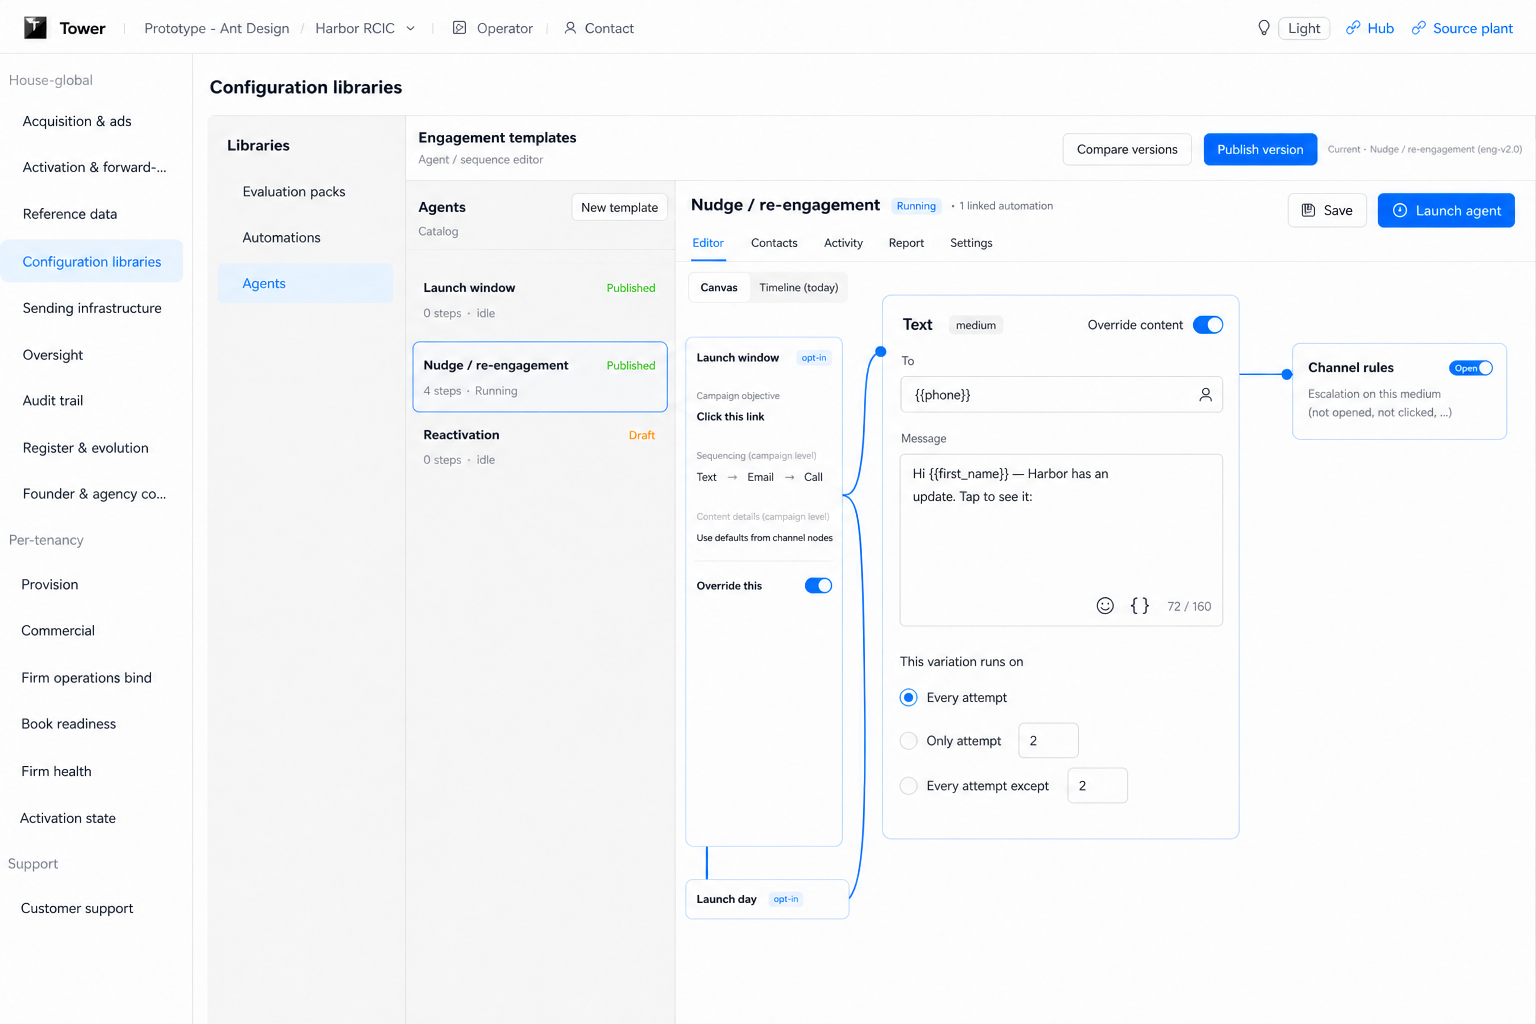
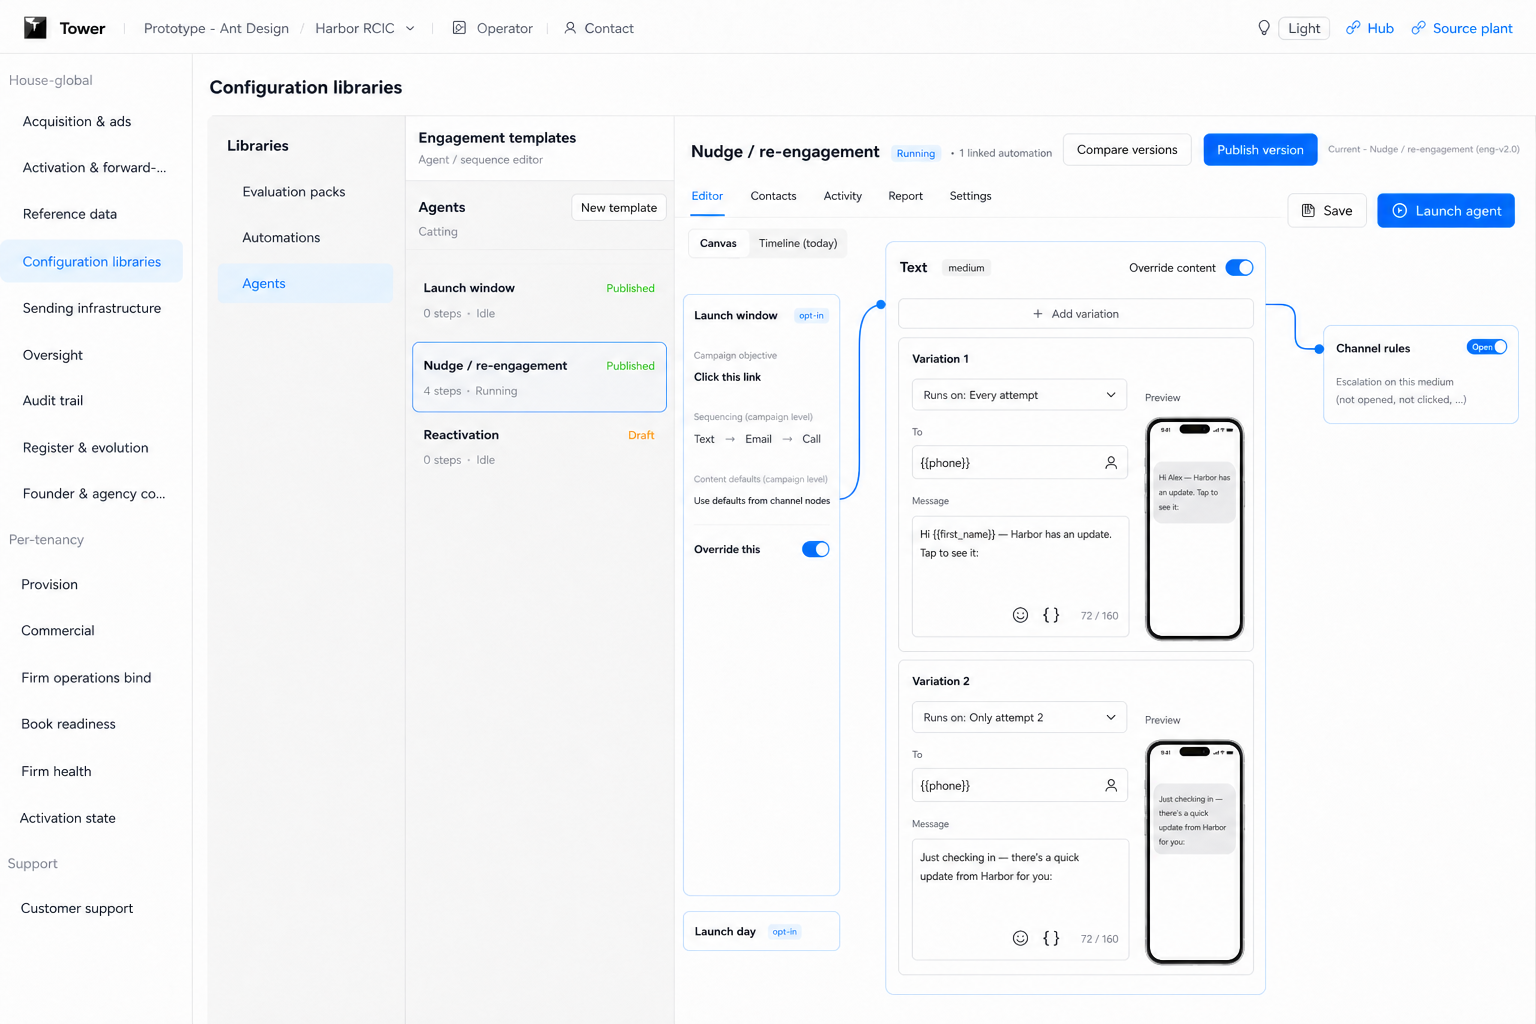
docs: spec copy-only grains; C11 is add variation
C0 is the Agents settings control. C9 is campaign attempt count and distance. C11 is + Add variation on the channel, then how that variation applies. C13 Activity table stands; Contacts uses the same table. Written spec for the implementer.

diff --git a/docs/register/IMPLEMENTER-FACE-PASS.md b/docs/register/IMPLEMENTER-FACE-PASS.md
@@ -1,0 +1,104 @@
+# Implementer face pass — copy this, ignore that
+
+**Seat:** Product Manager. Paste this. Product language. Do not invent backend. Do not mint tables.  
+**Flag:** [`PHASE-TWO-LOG.md`](./PHASE-TWO-LOG.md) **15:43 UTC** — do not overwrite.  
+**Desk:** CT Ant `/prototype-ant`, Light. Operator → Configuration libraries → Agents / Automations. Chrome rule: [`PLATE-CHROME-RULE.md`](./PLATE-CHROME-RULE.md).  
+**Captions:** [`IMAGE-CAPTION-AUDIT.md`](./IMAGE-CAPTION-AUDIT.md). Teaching copy on older plates is not a node.
+
+Each new plate has **one purpose**. Copy that. Everything else on that PNG is not spec.
+
+---
+
+## C0 — only the Agents settings control
+
+Plate: [`agents-blueprint/C0-agents-global-settings-entry.png`](./agents-blueprint/C0-agents-global-settings-entry.png)
+
+**Copy:** The **Agents settings** control (gear + label) on the Agents catalog, next to **New template**. That is **global** — every sequence starts from these settings unless a sequence or campaign overrides.
+
+**Ignore:** The rest of that PNG. Mock beats. The right editor body. Teaching banners. Catalog-selection drift.
+
+**Opens:** [`C6-agents-settings-global.png`](./agents-blueprint/C6-agents-settings-global.png) — already locked. Do not invent a third Settings surface.
+
+---
+
+## C9 — only the campaign attempt modulators
+
+Plate: [`agents-blueprint/C9-campaign-local-attempt-add-channel.png`](./agents-blueprint/C9-campaign-local-attempt-add-channel.png)
+
+**Copy:** When **Override this** is **on**, the campaign container shows two attempt settings:
+
+- **Attempt count**
+- **Distance between attempts**
+
+Those live on the **campaign**, not on a channel. Attempts are cycles of the same channel order.
+
+**Ignore:** Everything else on that PNG. Objective teaching copy. Sequencing chips. Closed channel cards. Launch day. Any leftover qualify caption. **Do not copy + Add channel from this plate** — it is not this plate’s purpose.
+
+---
+
+## C11 — add a variation (this plate was redone)
+
+Plate: [`agents-blueprint/C11-channel-attempt-variation.png`](./agents-blueprint/C11-channel-attempt-variation.png)
+
+**Dead:** Three radios on one composer (“this variation runs on…” locking a single block). That does not work. You cannot add another variation that way.
+
+**Copy:**
+
+1. On the **channel node**, a **+ Add variation** control at the **top** of the node.
+2. Clicking it **adds** a variation — another content block on that same channel.
+3. **Then** each variation has a control for **how it applies in the attempt cycle** (every attempt / only this attempt / every attempt except this one). That selector lives **on the variation**, after you add it.
+
+Not A/B. Same channel, more than one content, each tied to the attempt cycle.
+
+**Ignore:** Launch window / Launch day teaching. Qualify captions. Anything that is not the + Add variation grain and the per-variation apply control.
+
+---
+
+## C13 — Activity table (keep)
+
+Plate: [`agents-blueprint/C13-sequence-activity.png`](./agents-blueprint/C13-sequence-activity.png)
+
+**Copy:** The **Activity** tab as an Ant **table**. Columns: **Time · Name · Firm · Channel · What happened**. Real names and firms. Search. Pagination. Not `event_kind` + a UUID. Not a numbered list. Not the engagement chart.
+
+---
+
+## Contacts — same table, no new image
+
+Do not need a new PNG. **Contacts** uses the **same table chrome as C13**.
+
+Columns: **Name · Firm · Enrolled date**. Search. Pagination. People and firms, not `contact_id` / “lead 351”.
+
+Add contact remains the **C8 modal** (Every firm / Select from), not a thin popover. Header button still sits with Save / Launch.
+
+Plate for the modal only: [`C8-sequence-contacts-enroll.png`](./agents-blueprint/C8-sequence-contacts-enroll.png). Copy the modal and the table grain. Ignore founder-caption sentences on C8.
+
+---
+
+## Also do (written — not a new plate)
+
+These were asked. They are not “copy from C9/C11.”
+
+| Do | How |
+|----|-----|
+| **Add a channel** | On the open campaign, **+ Add channel**. Do not stub. Do not change a number first. Not taken from C9. |
+| **Channels are not radios** | Opening one channel must not close the others. Any mix of open/closed. |
+| **Sequence Settings** | This sequence’s Settings tab = [`C7`](./agents-blueprint/C7-sequence-settings.png). Attempt cycle ≠ channel rules. Channel rules are per medium. |
+| **Override toggle** | Lives **above** its modulators. Off = greyed inherit. On = you can edit. Toggling with nothing underneath is not a control. |
+| **Global vs sequence** | C0 gear → C6 global. Sequence tab → C7. Then campaign local (C9). Channels nest inside a campaign; they are not a fourth CSS sibling. |
+| **Modals scroll** | Every modal and submodal body scrolls. Pervasive today. Fix it. |
+| **Action · Agents** | Match [`A12`](./automations-blueprint/A12-form-from-required-data.png) — an actual form from the listing. Assign path [`A14`](./automations-blueprint/A14-action-assign-or-template.png). |
+| **Rename nodes** | Click the title, edit in place, same as renaming a campaign in Agents. Including the If / condition node. Same pattern everywhere a name is changed. |
+| **Rule Output** | Match [`A11`](./automations-blueprint/A11-rule-output-required-data-listing.png). |
+
+---
+
+## What this is not
+
+- Not the engagement chart. Activity is a table. The chart is a record for later.
+- Not Hub chrome.
+- Not freezing Launch window / Launch day as types.
+- Not a `qualify` node.
+- Not three radios as the variation model.
+- Not planting from this file into a different module.
+
+**Reports** may stay empty.

diff --git a/docs/register/AGENTS-UI-BLUEPRINT.md b/docs/register/AGENTS-UI-BLUEPRINT.md
@@ -27,10 +27,10 @@ These ten files are **canon**. Later plates revise earlier ones only where the t
 | **C6** | [`C6-agents-settings-global.png`](./agents-blueprint/C6-agents-settings-global.png) | **Agents Settings** = global defaults. Founder: locked, perfect. | 19:30 two Settings surfaces | — |
 | **C7** | [`C7-sequence-settings.png`](./agents-blueprint/C7-sequence-settings.png) | **Sequence Settings** = this sequence; inherit unless override. Founder: locked, perfect. | 19:30 | — |
 | **C8** | [`C8-sequence-contacts-enroll.png`](./agents-blueprint/C8-sequence-contacts-enroll.png) | This sequence → **Contacts**. Displays enrolled. **Add contact** in the header. Scope: **Every firm** (default) or **Select from** (all selected; deselect to pick one). Starts the mission now. | 00:02 · 01:01 scope | — |
-| **C0** | [`C0-agents-global-settings-entry.png`](./agents-blueprint/C0-agents-global-settings-entry.png) | Agents **module** Settings entry: gear **Agents settings** on the catalog, next to New template. Global — every sequence. Same desk as live `/prototype-ant`. | 16:10 · 16:16 chrome | — |
-| **C9** | [`C9-campaign-local-attempt-add-channel.png`](./agents-blueprint/C9-campaign-local-attempt-add-channel.png) | Override this **on**: campaign **attempt count** + **distance between attempts**; **+ Add channel**; Text and Email can both stay open (not radios). Same Operator desk as C4/C5. | 16:10 · 16:16 chrome | revises C4/C5 for those grains |
-| **C11** | [`C11-channel-attempt-variation.png`](./agents-blueprint/C11-channel-attempt-variation.png) | Inside a channel: **this variation runs on** every attempt / only N / every except N. Not A/B. Same desk as C5. | 16:10 · 16:16 chrome | — |
-| **C13** | [`C13-sequence-activity.png`](./agents-blueprint/C13-sequence-activity.png) | **Activity** tab as a table: Time · Name · Firm · Channel · What happened. Same table chrome as C8. Not UUIDs. Not the engagement chart. | 16:10 · 16:16 chrome | — |
+| **C0** | [`C0-agents-global-settings-entry.png`](./agents-blueprint/C0-agents-global-settings-entry.png) | **Copy only:** Agents settings gear next to New template (global). Ignore the rest of the PNG. | 16:10 · 16:34 | — |
+| **C9** | [`C9-campaign-local-attempt-add-channel.png`](./agents-blueprint/C9-campaign-local-attempt-add-channel.png) | **Copy only:** Override this on → **Attempt count** + **Distance between attempts** on the campaign. Ignore the rest of the PNG. | 16:10 · 16:34 | — |
+| **C11** | [`C11-channel-attempt-variation.png`](./agents-blueprint/C11-channel-attempt-variation.png) | **+ Add variation** at the top of the channel. Each variation then selects how it applies in the attempt cycle. Not three radios. | 16:34 | — |
+| **C13** | [`C13-sequence-activity.png`](./agents-blueprint/C13-sequence-activity.png) | **Activity** table: Time · Name · Firm · Channel · What happened. Contacts uses the same table chrome (Name · Firm · Enrolled date) — no extra PNG. | 16:10 · 16:34 | — |
 
 ### Discarded (do not spec, do not hand to SA as face)
 

diff --git a/docs/register/PHASE-TWO-LOG.md b/docs/register/PHASE-TWO-LOG.md
@@ -2,7 +2,7 @@
 
 **Purpose:** Running log so a new agent can start where we stopped. Thesis stays in [`PHASE-TWO.md`](./PHASE-TWO.md). Nothing is more important than this file staying current.
 
-**Current (read first, then the newest stamp at the bottom):** Agents **flagship** = 2026-08-15 15:43 UTC. **16:16:** plates must screenshot live `/prototype-ant` chrome first — [`PLATE-CHROME-RULE.md`](./PLATE-CHROME-RULE.md). C0 / C9 / C11 / C13 regenerated on that desk. Still left: **3** send; lineage; book-in door. Do not plant.
+**Current (read first, then the newest stamp at the bottom):** Agents **flagship** = 2026-08-15 15:43 UTC. **16:34:** each new plate has one purpose — C0 gear, C9 campaign attempt modulators, C11 + Add variation, C13 Activity table. Written spec [`IMPLEMENTER-FACE-PASS.md`](./IMPLEMENTER-FACE-PASS.md). Still left: **3** send; lineage; book-in door. Do not plant.
 
 **How we maintain this log**
 
@@ -880,6 +880,18 @@ Flag 15:43 untouched.
 **What we did:** Screenshotted the live Agents catalog, editor, settings, Automations canvas. Regenerated **C0** (Agents settings gear next to New template), **C9** (attempt count + distance on the campaign, + Add channel, both channels can stay open), **C11** (this variation runs on), **C13** (Activity table like C8). Chrome matches the Operator desk, not Hub, not a made-up sidebar.
 
 **Do not:** hand drifted plates to an implementer; overwrite 15:43; plant.
+
+Flag 15:43 untouched.
+
+---
+
+## 2026-08-16 16:34 UTC — Copy only the purpose of each plate
+
+**Why:** Founder: C0 only the Agents settings button. C9 only the override-attempt modulators on the campaign. C11 radios do not work — it is **add a variation** (+ on the channel), then select how that variation applies in the attempt cycle. C13 Activity table is great. Contacts = same table, no extra PNG. Written spec must say exactly what to copy; the rest of those PNGs would confuse the implementer.
+
+**What we wrote:** [`IMPLEMENTER-FACE-PASS.md`](./IMPLEMENTER-FACE-PASS.md). Regenerated C11 (+ Add variation, stacked variations). Tightened C9 (campaign attempt count + distance). C0 and C13 kept; spec says ignore the rest of C0.
+
+**Do not:** copy Mock beats from C0; copy channel composers from C9; ship three radios as variation; plant; overwrite 15:43.
 
 Flag 15:43 untouched.
 
